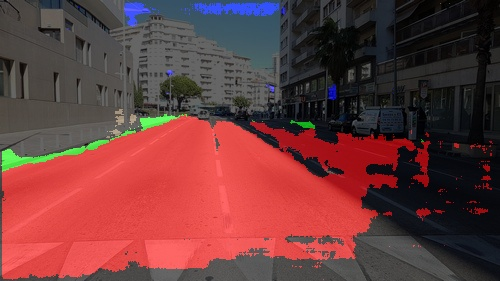
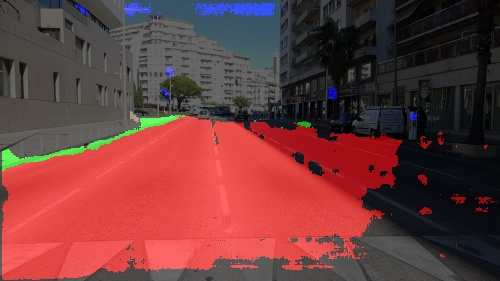
Détection route en watershed+legendes de cette détection

diff --git a/hough/watershed.py b/hough/watershed.py
@@ -1,0 +1,95 @@
+import numpy as np
+import cv2
+from matplotlib import pyplot as plt
+import imutils
+import time
+
+def invert_img(img):
+    img = (255-img)
+    return img
+
+def legendes():
+
+	#i = 0
+	classes = []	
+	couleurs = []
+
+	with open("./classes.txt", "r") as fichier_classes:
+		for line in fichier_classes.readlines():
+			une_ligne = line.split()
+			classes.append(une_ligne)
+	fichier_classes.close()
+
+	with open("./couleurs.txt", "r") as fichier_couleurs:
+                for line in fichier_couleurs.readlines():
+                        une_ligne = line.split()
+                        couleurs.append(une_ligne)
+			#print(couleurs[i])
+			#i = i+1
+        fichier_couleurs.close()
+
+	#print(couleurs)
+
+	legend = np.zeros(((len(classes) * 60) + 50, 400, 3), dtype="uint8")
+	for (i, (className, c)) in enumerate(zip(classes, couleurs)):
+		# draw the class name + color on the legend
+		className = str(classes[i]) 
+		couleur = [int(j) for j in c]
+		#print(className)
+		#print(couleur)
+		cv2.putText(legend, className, (0, (i * 75)+50), cv2.FONT_HERSHEY_SIMPLEX, 0.6, (255, 255, 255), 2)
+		cv2.rectangle(legend, (125, (i * 75)+60), (525, (i * 75)+30), couleur, -1)
+
+	cv2.imwrite("./legendes.jpg", legend)
+
+def watershed():
+
+	img = cv2.imread("../Images_rue/Image9.jpg")
+	mask = cv2.imread("../Images_rue/Image9.jpg")
+	img = imutils.resize(img, height = 300)
+        mask = imutils.resize(mask, height = 300)
+
+	gray = cv2.cvtColor(mask, cv2.COLOR_BGR2GRAY)
+
+	ret, thresh = cv2.threshold(gray,0,255,cv2.THRESH_BINARY_INV+cv2.THRESH_OTSU)
+
+	thresh = invert_img(thresh)
+
+# Suppression du bruit
+	kernel = np.ones((3,3), np.uint8)
+	opening = cv2.morphologyEx(thresh,cv2.MORPH_OPEN,kernel, iterations = 4)
+
+# Recherche de l'arriere plan
+	sure_bg = cv2.dilate(opening,kernel,iterations=3)
+
+# Recherche du plan de devant
+	dist_transform = cv2.distanceTransform(opening, cv2.DIST_L2, 5)
+	ret, sure_fg = cv2.threshold(dist_transform,0.7*dist_transform.max(),255,0)
+
+# Recherche des regions inconnus
+	sure_fg = np.uint8(sure_fg)
+	unknown = cv2.subtract(sure_bg,sure_fg)
+
+	ret, markers = cv2.connectedComponents(sure_fg)
+	markers = markers+1
+
+# Les regions inconnus ont une marque a 0
+	markers[unknown==255] = 0
+
+# Mise en place du watershed
+	markers = cv2.watershed(mask,markers)
+	mask[markers == -1] = [0,0,255]
+	mask[markers == 2] = [0,0,255]
+	mask[markers == 1] = [255,255,255]
+
+	result = ((0.4 * img) + (0.6 * mask)).astype("uint8")	
+
+	cv2.imwrite('./background.jpg', sure_bg)
+	cv2.imwrite('./foreground.jpg', sure_fg)
+	cv2.imwrite('./threshold.jpg', thresh)
+	cv2.imwrite('./mask.jpg', mask)
+	cv2.imwrite('./img.jpg', img)
+	cv2.imwrite('./result.jpg', result)
+
+legendes()
+watershed()

diff --git a/hough/detection_routes.py b/hough/detection_routes.py
@@ -13,7 +13,7 @@ def imageCenter():
 	heightCropped = int(np.size(image, 0)/3)
 	widthCropped = int(np.size(image, 1)/3)
 
-	croppedImg = image[heightCropped:heightCropped*2,widthCropped:widthCropped*2]
+	croppedImg = image[heightCropped+110:heightCropped*2+110,widthCropped:widthCropped*2]
 	#cv2.imwrite("./test.jpg", croppedImg)
 
 	return croppedImg
@@ -21,16 +21,28 @@ def imageCenter():
 def detect_road():
 
 	croppedImg = imageCenter()
-	
+	image_finale = choixImage()
+        hC = int(np.size(image_finale, 0)/3)
+        wC = int(np.size(image_finale, 1)/3)	
+
 	#gray = cv2.cvtColor(croppedImg, cv2.COLOR_BGR2GRAY)
 	#gray = cv2.equalizeHist(gray.astype(np.uint8))
 	blur = cv2.GaussianBlur(croppedImg, (5,5), 0)
 	#img = cv2.adaptiveThreshold(blur, 255, cv2.ADAPTIVE_THRESH_GAUSSIAN_C, cv2.THRESH_BINARY, 11, 2)
-	low_color = np.array([200,200,200])
+	low_color = np.array([225,225,225])
 	up_color = np.array([255,255,255])
 	mask = cv2.inRange(blur, low_color, up_color)
+	edges = cv2.Canny(mask, 75, 150)
+
+	lines = cv2.HoughLinesP(edges, 1, np.pi/180, 30, maxLineGap=50)
+	if lines is not None:
+		for line in lines:
+			x1, y1, x2, y2 = line[0]
+			cv2.line(croppedImg, (x1, y1), (x2, y2), (0,0,255), 5)
+			#cv2.line(image_finale, (x1, y1), (x2, y2), (0,0,255), 5)
 	
-	cv2.imwrite("./test.jpg", mask)
+	cv2.imwrite("./image_coupe.jpg", croppedImg)
+	#cv2.imwrite("./image_finale.jpg", image_finale)
 
 
 detect_road()
